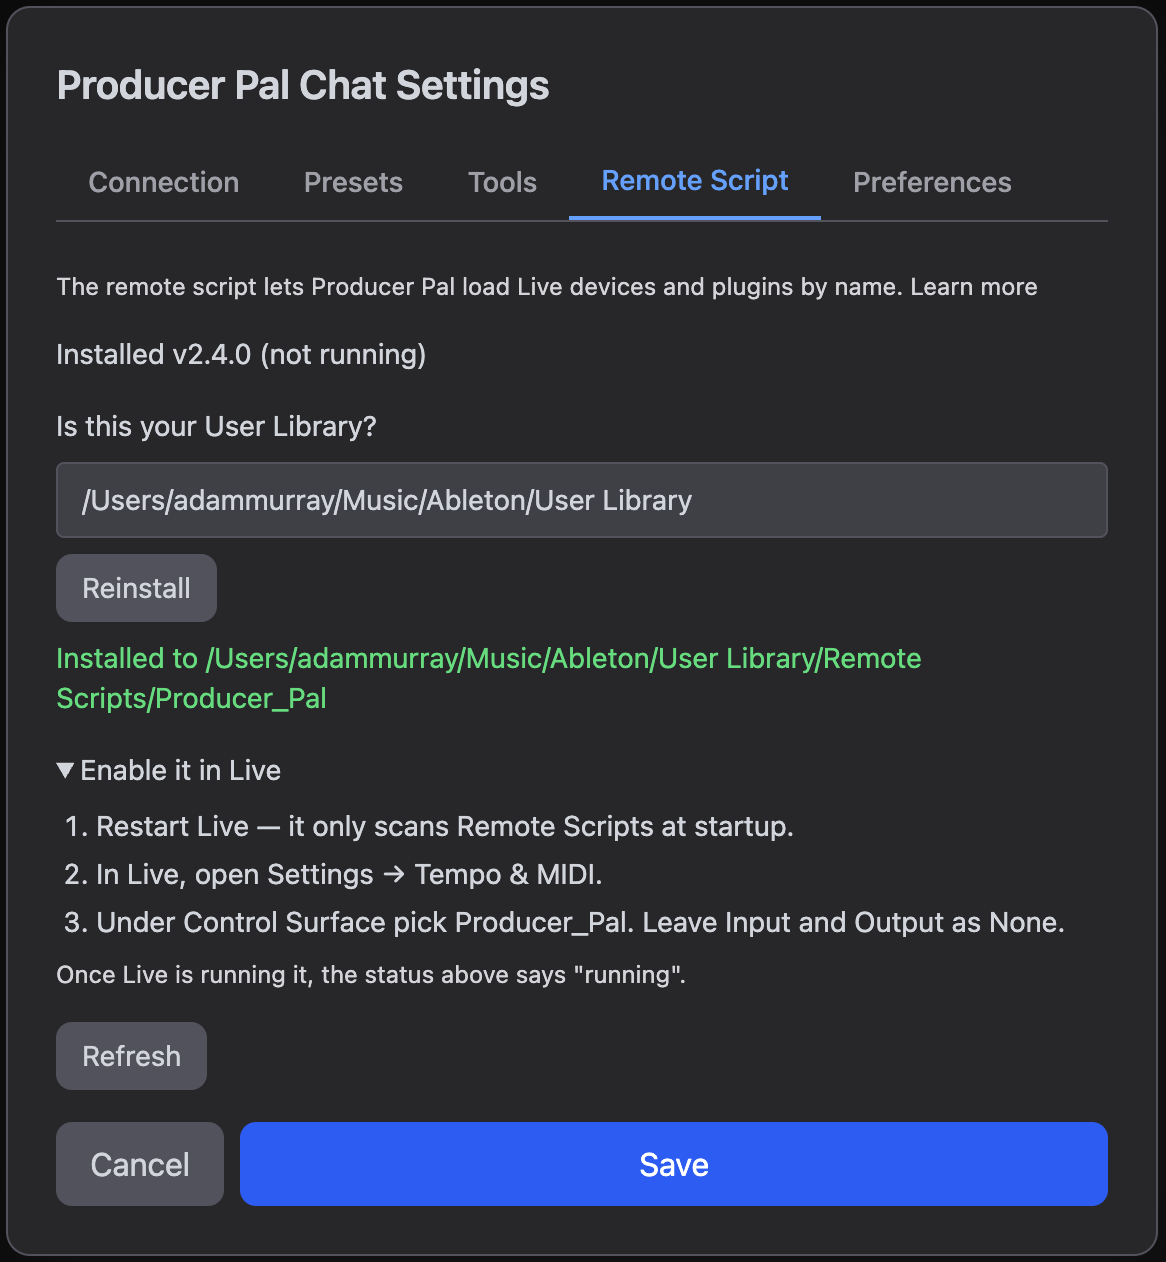
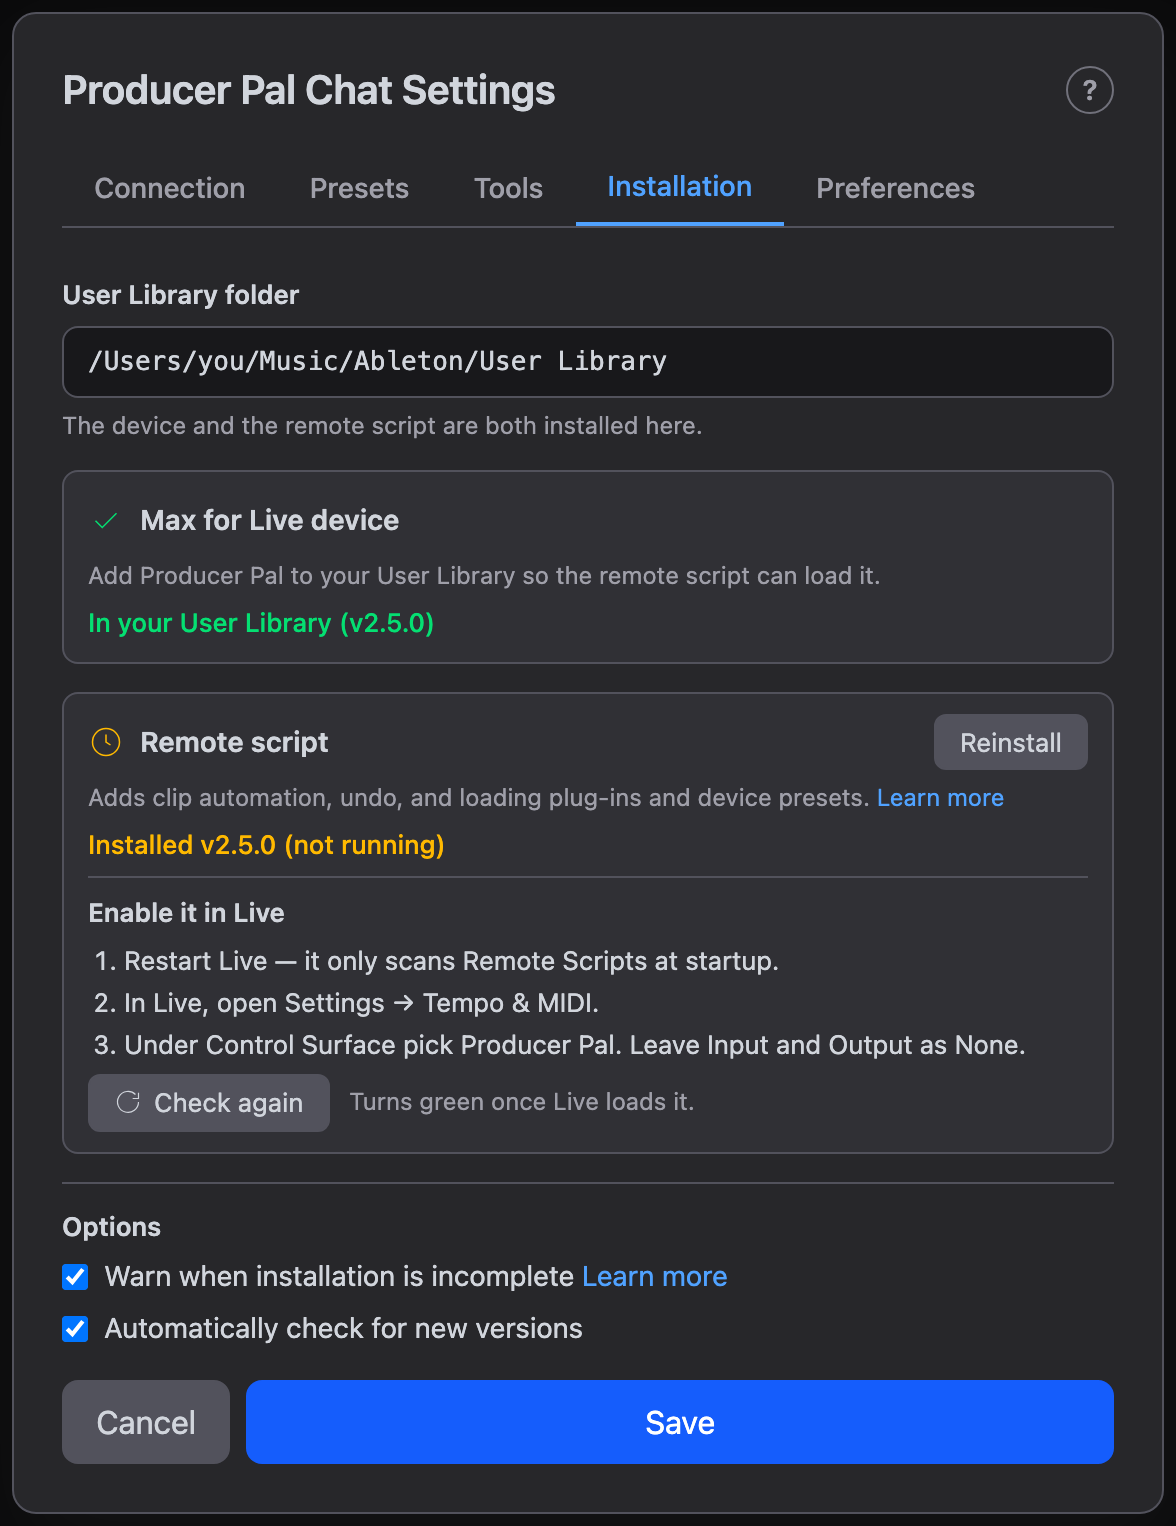
docs: new Installation tab screenshots for 2.5
The remote script guide still showed the 2.4 tab, and the install guide
had a placeholder. The new shots show the tidied tab in each state:
before installing, installed but not running, and running. The install
and chat UI guides now list the device before the remote script and put
the notice checkboxes at the bottom, matching the tab.

diff --git a/docs/guide/remote-script.md b/docs/guide/remote-script.md
@@ -51,7 +51,7 @@ Click **Finish installation…** on the device's Main tab. Or open the
 [Chat UI](/guide/chat-ui) with **Open Chat UI** and go to **Settings →
 Installation**.
 
-<!-- TODO screenshot: Installation tab (Remote script and device cards) -->
+<img src="/img/producer-pal-chat-settings-remote-script-pre-install.png" alt="The Installation tab before installing: the User Library folder, the device not in the User Library yet, and the remote script not installed" width="500"/>
 
 1. **Confirm your User Library folder.** Producer Pal reads it from Live's
    browser database or settings, or finds it in the default location. If it is
@@ -59,15 +59,13 @@ Installation**.
    Library → Location of User Library**.
    - macOS: `~/Music/Ableton/User Library`
    - Windows: `C:\Users\you\Documents\Ableton\User Library`
-2. **Remote script:** click **Install** (or **Update**). The script is written
-   to `<User Library>/Remote Scripts/Producer_Pal`, replacing any older copy.
-3. **Max for Live device:** click **Copy** (or **Update copy**) to copy the
+2. **Max for Live device:** click **Copy** (or **Update copy**) to copy the
    Producer Pal device to
    `<User Library>/Presets/MIDI Effects/Max MIDI Effect/Producer_Pal.amxd`. One
    copy there serves all your projects, and lets a coding agent or the Claude
    Desktop extension add Producer Pal to a new project.
-
-<img src="/img/producer-pal-chat-settings-remote-script-pre-install.png" alt="The Installation tab before installing, showing Not installed, the User Library path, and the Install button" width="500"/>
+3. **Remote script:** click **Install** (or **Update**). The script is written
+   to `<User Library>/Remote Scripts/Producer_Pal`, replacing any older copy.
 
 ### Swap the running device for the User Library copy
 
@@ -113,7 +111,7 @@ After restarting Live, click **Check again** (or **Refresh**) in the
 Installation tab. It shows the installed version and whether Live is running it.
 "Running" means Live loaded it and it is answering on its port:
 
-<img src="/img/producer-pal-chat-settings-remote-script-running.png" alt="The Installation tab showing Installed v2.4.0, running in Live" width="500"/>
+<img src="/img/producer-pal-chat-settings-remote-script-running.png" alt="The Installation tab with the device in the User Library and the remote script installed and running in Live" width="500"/>
 
 If it says installed but not running, you either skipped the restart or the
 Control Surface slot isn't set.

diff --git a/docs/guide/chat-ui.md b/docs/guide/chat-ui.md
@@ -545,14 +545,8 @@ notation and then handed notes in another.
 ### Installation
 
 The Installation tab puts Producer Pal's files in your Live User Library. Both
-cards use the one User Library path near the top of the tab.
+cards use the one User Library path at the top of the tab.
 
-- **Remote script:** installs the Producer Pal
-  [remote script](/guide/remote-script), which adds clip automation, undo and
-  redo, and loading plug-ins, Max for Live devices and presets. It shows whether
-  the script is installed and whether Live is running it, and offers an update
-  when your Producer Pal build has a newer one. The header also flags this, so
-  you can spot it without opening Settings.
 - **Max for Live device:** copies the Producer Pal device you loaded into your
   User Library, so every Live Set can find it. The device shows a **Finish
   installation…** button until it's there (and the remote script is current);
@@ -563,12 +557,19 @@ cards use the one User Library path near the top of the tab.
   the device in your Set with it. The AI connection drops for a moment while the
   new device starts. Save your Live Set afterwards so it keeps using the User
   Library copy.
+- **Remote script:** installs the Producer Pal
+  [remote script](/guide/remote-script), which adds clip automation, undo and
+  redo, and loading plug-ins, Max for Live devices and presets. It shows whether
+  the script is installed and whether Live is running it, and offers an update
+  when your Producer Pal build has a newer one. The header also flags this, so
+  you can spot it without opening Settings.
 
 <img src="/img/producer-pal-chat-settings-remote-script-running.png" alt="Installation tab" width="500"/>
 
 See the [remote script guide](/guide/remote-script) to install and enable it.
 
-Two checkboxes at the top of the tab control the notices on the device:
+Two checkboxes under **Options**, at the bottom of the tab, control the notices
+on the device:
 
 - **Warn when installation is incomplete** - On by default. The device shows
   **Finish installation…** while its User Library copy or the remote script is

diff --git a/docs/installation.md b/docs/installation.md
@@ -162,13 +162,14 @@ other HTTP clients.
 #### Finish the Installation {#finish-the-installation}
 
 4. On the device, click **Finish installation…** (or **Open Chat UI**, then
-   **Settings → Installation**).
+   **Settings → Installation**). It opens this tab:
+
+   <img src="/img/producer-pal-chat-settings-installation.png" alt="The Installation tab with the device in the User Library and the remote script not installed yet" width="500"/>
+
 5. Click **Install** next to Remote script.
 6. <!--@include: ./_partials/control-surface.md-->
 7. Follow your app's guide from Step 1 to connect it, then say **"connect to
    ableton"**.
-
-<!-- TODO screenshot: Installation tab -->
 
 The remote script adds clip automation, undo and redo, and loading plug-ins and
 Max for Live devices. The User Library copy keeps the device up to date across
